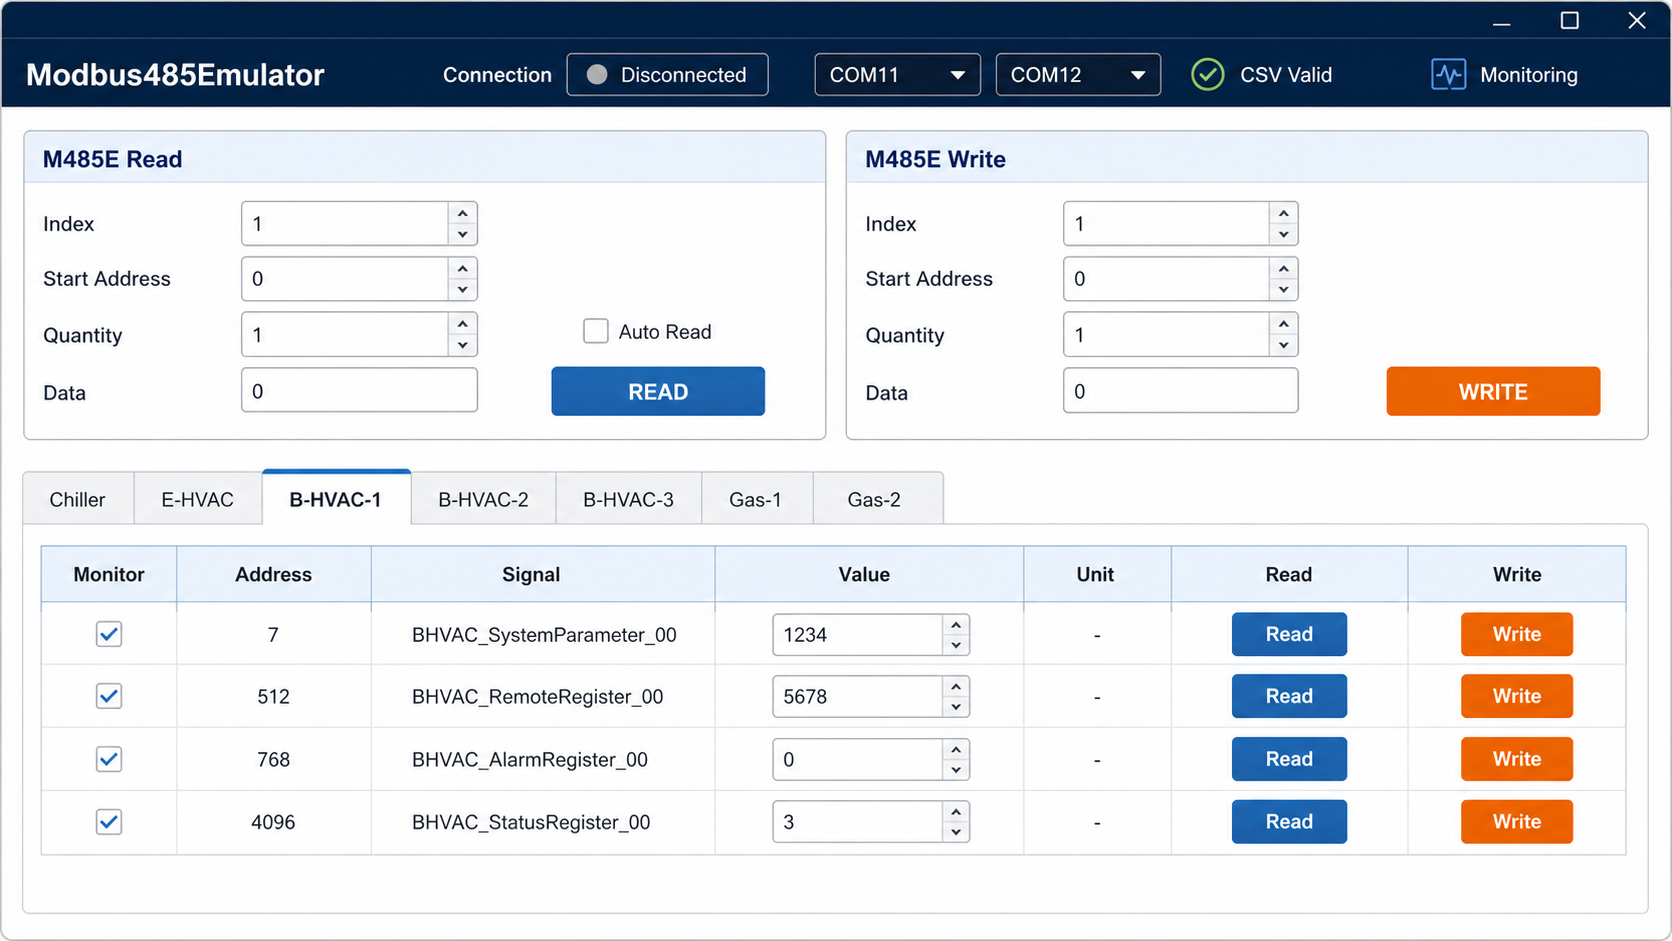
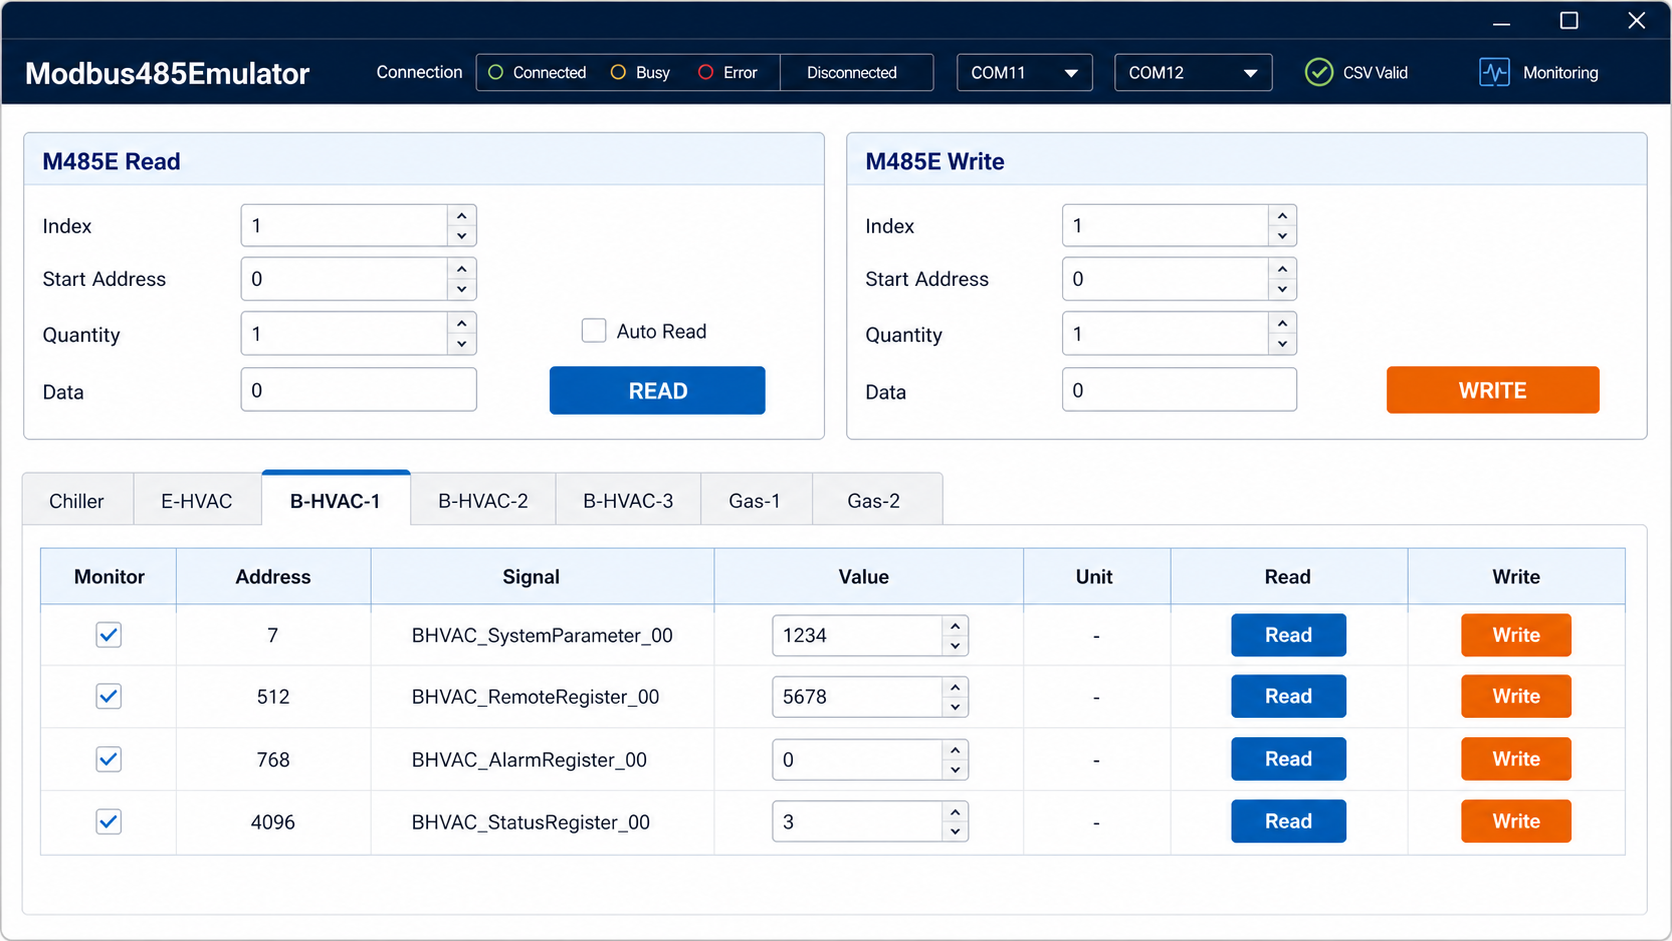
기능: Connection 상태 표시 추가

diff --git a/docs/REQUIREMENTS_SPEC.md b/docs/REQUIREMENTS_SPEC.md
@@ -297,6 +297,7 @@
 | FR-UI-014 | CAPL Monitoring은 최대 200개의 정적 `ReadOption` 항목에 `SysvarIndex`, `Index`, `RuleId`를 명시한다. `SysvarIndex`는 `0..ReadOptionCount-1`의 연속된 고유값이고 `Index + RuleId` 조합도 중복될 수 없으며, `Check_ReadOption[]`의 논리 길이는 `ReadOptionCount`와 일치해야 한다. |
 | FR-UI-015 | 프로젝트의 모든 `M485E_FrameRule.csv` Rule은 CAPL `ReadOption`에 정확히 한 번 매핑하고 전체 Rule 수는 200개를 넘지 않는다. CAPL Table과 CSV의 일치 여부는 프로젝트 Configuration 검증 대상으로 관리하며 1차 구현에 Rule Catalog 조회용 신규 공개 DLL API를 추가하지 않는다. |
 | FR-UI-016 | CAPL은 Checkbox에서 읽은 Candidate ReadOption 집합과 실제 Monitoring에 사용하는 Applied ReadOption 집합을 분리한다. Candidate 전체가 검증된 경우에만 Applied 집합을 원자 교체하고 거부 시 Checkbox를 직전 Applied 값으로 복원한다. |
+| FR-UI-017 | CAPL UI는 100ms Lifecycle Polling 결과로 실제 연결, 진행 중, 오류 상태를 각각 `Connection::ConnectedLed`, `BusyLed`, `ErrorLed`에 배타적으로 게시하고, 같은 상태를 `Connection::StateText`의 읽을 수 있는 문자열로 게시한다. `ConnectSwitch`는 사용자 의도이므로 실제 연결 LED로 사용하지 않는다. |
 
 ### 3.6 CAN Monitoring
 
@@ -1410,6 +1411,7 @@
 | AC-245 | FR-LIFE-035~036 | 최초 Connect 실패 시 자동 재연결 없이 Switch가 OFF가 되고, 사용자가 ON으로 재요청할 수 있다. 초기 Connecting 중 OFF이면 연결 시도 완료 뒤 COM이 닫히고 Runtime 자동 재연결 중 OFF이면 재연결이 취소된다. |
 | AC-246 | FR-LIFE-037 | Connected, Connecting, Refreshing 상태 각각에서 Measurement를 종료해도 CAPL Timer가 재시작되지 않고 모든 Worker가 Join되며 COM Handle이 해제된다. |
 | AC-247 | FR-LIFE-038 | 자동 재연결 10회 실패 후 상태와 ConnectSwitch가 모두 OFF/Disconnected로 일치하고 마지막 실패 ResultCode가 유지된다. |
+| AC-248 | FR-UI-017 | Lifecycle 상태 0~6 각각에서 Connected LED는 Connected에서만, Busy LED는 Refreshing/Connecting/Disconnecting에서만, Error LED는 Error에서만 1이고 StateText는 해당 상태 문자열이며, 이 값들이 100ms Lifecycle Polling에서 함께 갱신된다. |
 | AC-240 | PERF-021 | 정상 지원 부하에서 `0x81`은 변경 완료 후 100ms 이내, 활성 `0x80`은 해당 1,000ms Generation 안에 전체 Snapshot 묶음 출력이 시작된다. |
 | AC-241 | PERF-022, DES-THREAD-005 | Disconnected, Connected 및 진행 중 Lifecycle 작업의 취소 가능한 I/O 상태에서 Finalize가 2,000ms 이내 완료된다. 지연 강제 시험에서도 Thread Detach·강제 종료와 Join 전 Context 해제가 발생하지 않고 목표 초과를 진단한다. |
 | AC-242 | DES-BUILD-005 | 깨끗한 개발 PC에서 지정한 Vector 설치 경로 Build Property와 Visual Studio/MSBuild Win32 Configuration으로 빌드할 수 있고 저장소에 재배포가 확인되지 않은 Vector SDK 파일이 포함되지 않는다. |

diff --git a/examples/M485E_Test/CAPL_PANEL_IMPLEMENTATION_GUIDE.md b/examples/M485E_Test/CAPL_PANEL_IMPLEMENTATION_GUIDE.md
@@ -161,6 +161,10 @@ Panel Control 속성에서 사용자 편집을 막고 표시 전용으로 사용
 | CSV Valid | `M485E::Connection::ConfigurationValid` | LED | 1=검증 성공 |
 | Last Result | `M485E::Connection::LastResult` | Numeric Display | 마지막 비동기 작업 결과 |
 | Command Result | `M485E::Connection::ResultCode` | Numeric Display | 마지막 명령 접수 결과 |
+| Connected | `M485E::Connection::ConnectedLed` | Green LED | 실제 State=4일 때만 1 |
+| Busy | `M485E::Connection::BusyLed` | Yellow LED | State=2, 3, 5일 때 1 |
+| Error | `M485E::Connection::ErrorLed` | Red LED | State=6일 때만 1 |
+| State Text | `M485E::Connection::StateText` | Text Display | CAPL이 상태 문자열 갱신 |
 
 State 표시값은 다음과 같다.
 
@@ -173,6 +177,10 @@ State 표시값은 다음과 같다.
 | 4 | Connected |
 | 5 | Disconnecting |
 | 6 | Error |
+
+`ConnectSwitch`는 사용자의 연결 의도이며 실제 연결 완료 상태가 아니다. 따라서 연결 LED는
+`ConnectedLed`에 연결하고, 진행 상태와 오류는 각각 `BusyLed`, `ErrorLed`에 연결한다.
+네 표시 변수는 100ms Lifecycle Polling에서 갱신되며 Panel Control은 읽기 전용으로 설정한다.
 
 ### 4.3 Manual Read 영역
 

diff --git a/examples/M485E_Test/START_HERE_COMPANY_TEST.md b/examples/M485E_Test/START_HERE_COMPANY_TEST.md
@@ -195,6 +195,10 @@ Momentary 방식으로 설정한다. CAPL이 처리 후 0으로 되돌린다.
 | CSV Valid LED | `M485E::Connection::ConfigurationValid` | 1일 때 Green |
 | Last Result | `M485E::Connection::LastResult` | 읽기 전용 숫자 |
 | Command Result | `M485E::Connection::ResultCode` | 읽기 전용 숫자 |
+| Connected LED | `M485E::Connection::ConnectedLed` | 실제 연결 완료 시 Green |
+| Busy LED | `M485E::Connection::BusyLed` | Refresh/Connect/Disconnect 진행 시 Yellow |
+| Error LED | `M485E::Connection::ErrorLed` | Lifecycle Error 시 Red |
+| State Text | `M485E::Connection::StateText` | 읽기 전용 상태 문자열 |
 
 Refresh에 성공하면 현재 Register 값은 모두 폐기되고 CSV의 `Init_Value`로 다시 만들어진다.
 Refresh는 반드시 Disconnected 상태에서만 누른다.
